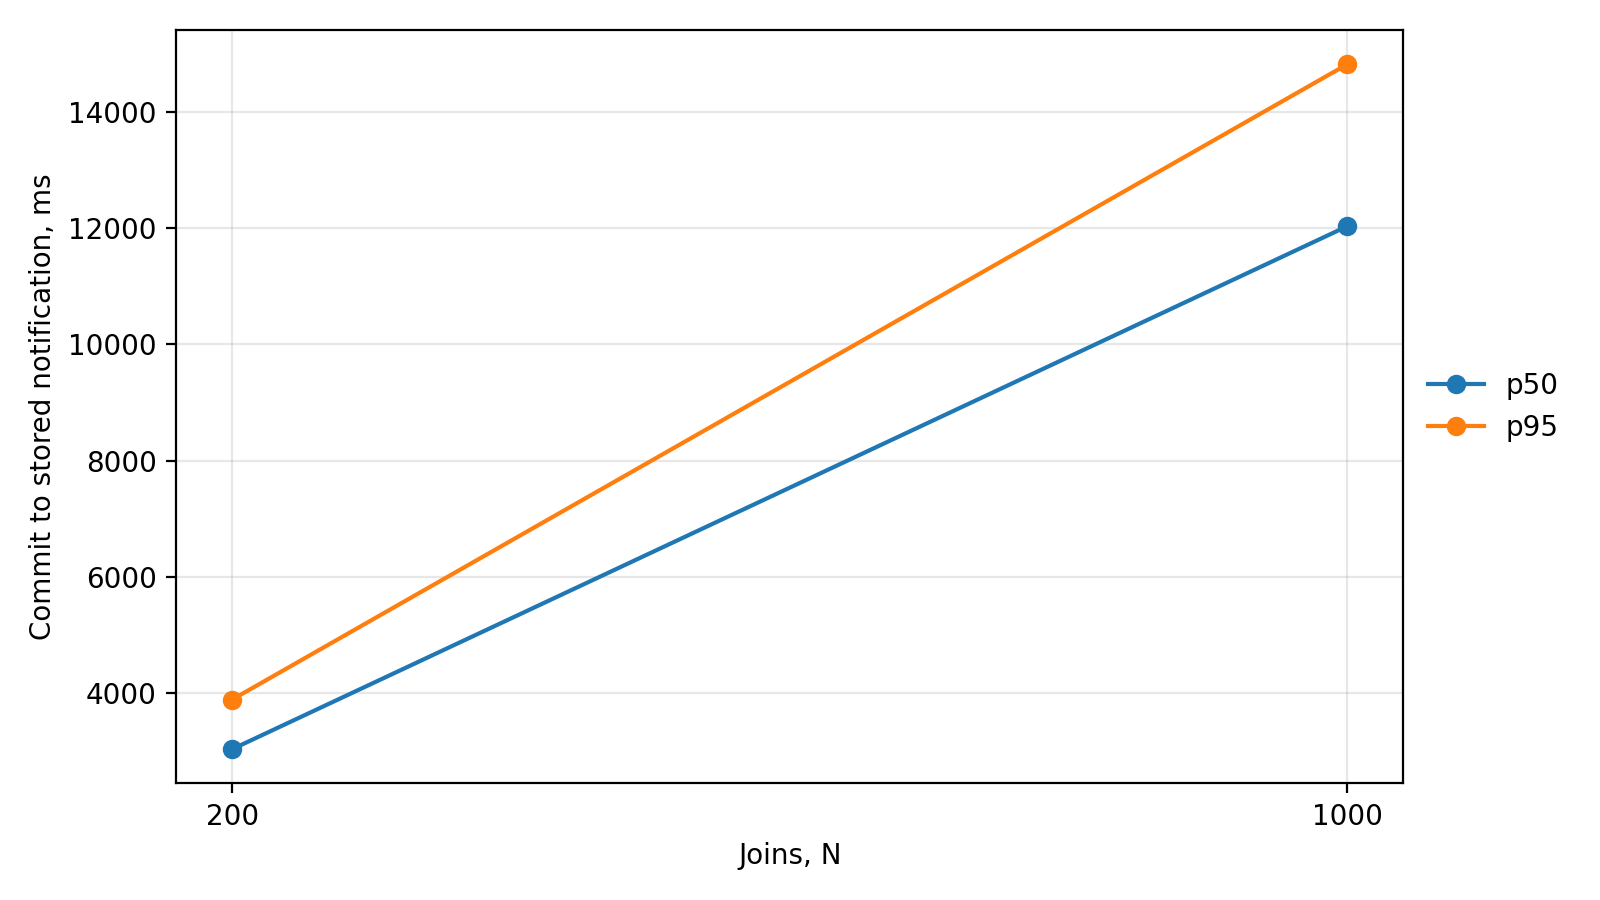
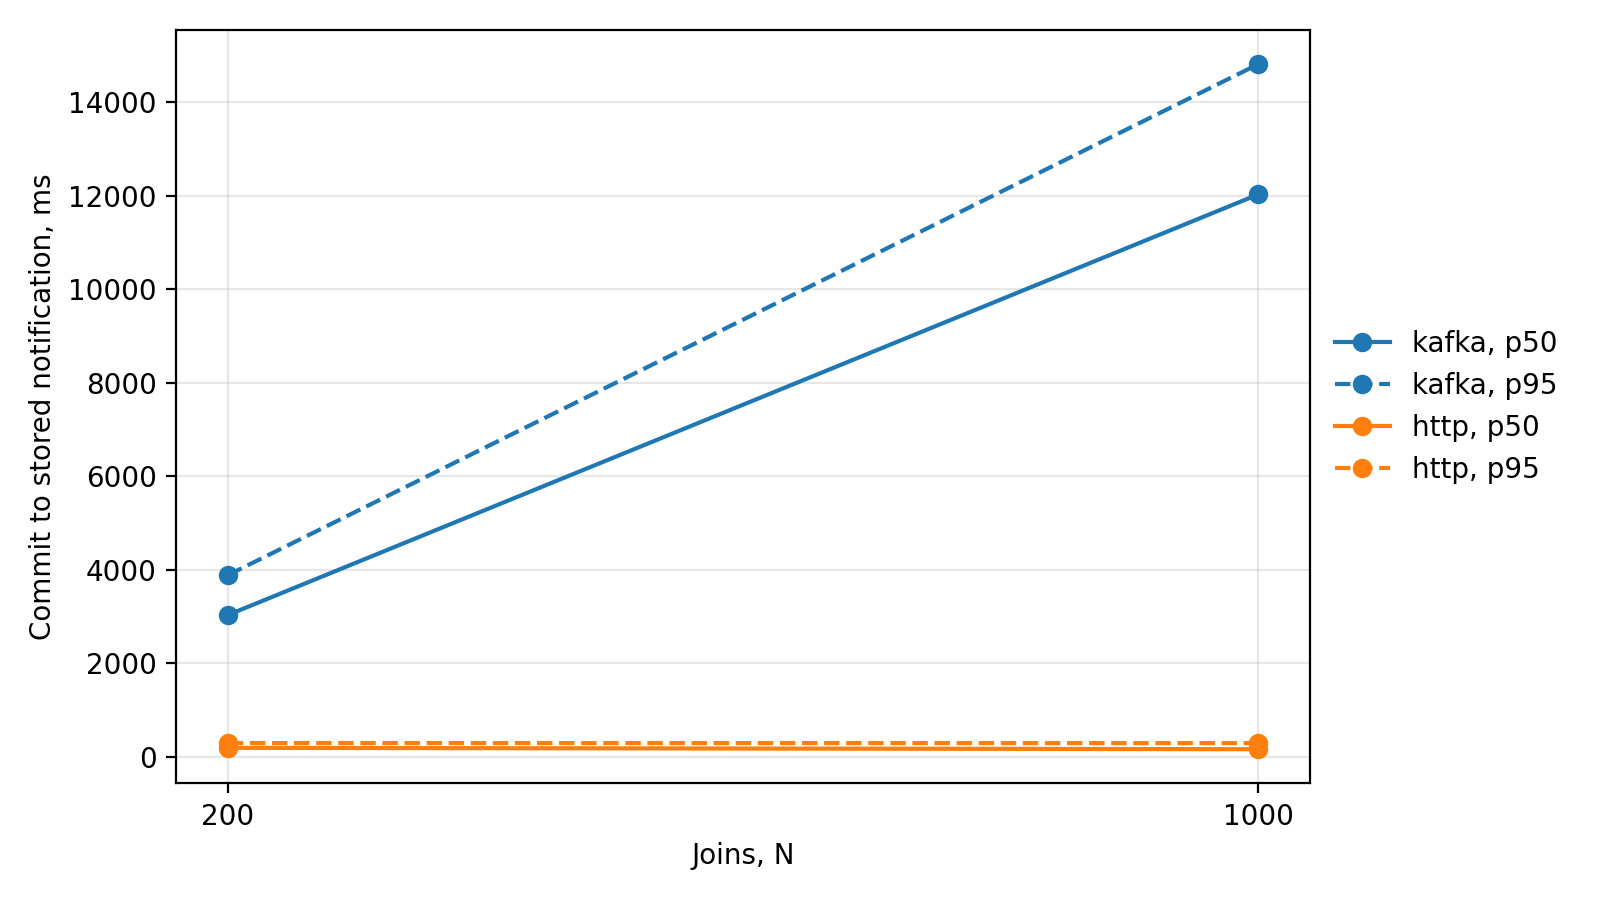
Add HTTP control mode to research experiments

diff --git a/research/experiments/exp-01-delivery.ts b/research/experiments/exp-01-delivery.ts
@@ -7,7 +7,7 @@ import {
 } from '../lib/delivery.js';
 import { joinPairs, runLoad } from '../lib/load.js';
 import { round, saveTable } from '../lib/report.js';
-import { isFinal, resetStack, waitUntil } from '../lib/stack.js';
+import { isFinal, mode, resetStack, waitUntil } from '../lib/stack.js';
 
 const SIZES = isFinal ? [1_000, 10_000, 50_000] : [200, 1_000];
 const REPEATS = isFinal ? 3 : 1;
@@ -18,6 +18,9 @@ const VUS = 20;
 const CONTROL_RATE = 20;
 const CONTROL_SIZE = isFinal ? 1_200 : 600;
 const WARM_UP = 50;
+
+// HTTP delivery skips these stages, and Kafka still publishes the event afterwards.
+const kafkaStage = (value: number) => (mode === 'kafka' ? value : 'n/a');
 
 async function measure(
   series: string,
@@ -40,12 +43,14 @@ async function measure(
   });
   const complete = await waitUntil(
     () => joinedNotifications() >= baseline + load.accepted,
-    1_800_000,
+    // HTTP has no recovery path, so missing notifications stay missing.
+    mode === 'http' ? 60_000 : 1_800_000,
     2_000,
   );
   const stages = deliveryStages(eventIds);
   console.info(`${series} N=${size} repeat=${repeat}: complete=${complete}`);
   return {
+    mode,
     series,
     N: size,
     repeat,
@@ -54,9 +59,9 @@ async function measure(
     httpP99: round(load.httpP99),
     endToEndP50: stages.endToEnd.p50,
     endToEndP95: stages.endToEnd.p95,
-    toPublishP50: stages.toPublish.p50,
-    toConsumeP50: stages.toConsume.p50,
-    toStoreP50: stages.toStore.p50,
+    toPublishP50: kafkaStage(stages.toPublish.p50),
+    toConsumeP50: kafkaStage(stages.toConsume.p50),
+    toStoreP50: kafkaStage(stages.toStore.p50),
     accepted: load.accepted,
     failed: load.failed,
     dropped: load.dropped,
@@ -76,5 +81,5 @@ export async function run(): Promise<void> {
       rows.push(await measure('saturated', size, repeat));
   for (let repeat = 1; repeat <= REPEATS; repeat += 1)
     rows.push(await measure('control', CONTROL_SIZE, repeat, CONTROL_RATE));
-  saveTable('exp-01', 'delivery', rows);
+  saveTable('exp-01', `delivery-${mode}`, rows);
 }

diff --git a/research/experiments/exp-02-failures.ts b/research/experiments/exp-02-failures.ts
@@ -20,6 +20,7 @@ import {
   count,
   isFinal,
   killService,
+  mode,
   resetStack,
   sleep,
   startService,
@@ -68,7 +69,8 @@ const failureRow = (
 const waitForDelivery = (baseline: number, eventIds: string[]) =>
   waitUntil(
     () => joinedNotifications() >= baseline + committedJoins(eventIds),
-    DELIVERY_TIMEOUT_MS,
+    // HTTP has no recovery path, so missing notifications stay missing.
+    mode === 'http' ? 30_000 : DELIVERY_TIMEOUT_MS,
   );
 
 async function consumerOutage({ users, nextEvents }: Context, size: number) {
@@ -212,12 +214,14 @@ export async function run(): Promise<void> {
   const rows: ReturnType<typeof failureRow>[] = [];
   const add = (row: ReturnType<typeof failureRow>) => {
     rows.push(row);
-    saveTable('exp-02', 'failures', rows);
+    saveTable('exp-02', `failures-${mode}`, rows);
   };
   for (const size of CONSUMER_OUTAGE_SIZES) {
     await waitForQuietPipeline();
     add(await consumerOutage(context, size));
   }
+  // Broker failure and repeated delivery apply only to the Kafka configuration.
+  if (mode === 'http') return;
   await waitForQuietPipeline();
   add(await brokerOutage(context));
   add(await repeatedDelivery());

diff --git a/research/lib/stack.ts b/research/lib/stack.ts
@@ -8,6 +8,7 @@ export const GATEWAY_URL = 'http://127.0.0.1:18000';
 export const ORIGIN = 'http://research.local';
 export const PROXY_NETWORK = 'event-sharing-research-proxy';
 export const isFinal = process.env.RESEARCH_PROFILE === 'final';
+export const mode = process.env.RESEARCH_MODE === 'http' ? 'http' : 'kafka';
 
 // A separate project name keeps these volumes apart from the deployed data.
 const PROJECT = 'event-sharing-research';
@@ -28,6 +29,8 @@ const environment = {
   GATEWAY_PORT: '18000',
   FRONTEND_ORIGIN: ORIGIN,
   PROXY_NETWORK,
+  // The control runs its own image, built from the research/http-baseline branch.
+  ...(mode === 'http' ? { APP_IMAGE: 'event-sharing-app:http-baseline' } : {}),
 };
 
 export const sleep = (milliseconds: number) =>
@@ -44,6 +47,7 @@ export function compose(args: string[], input?: string): string {
       'docker-compose.yml',
       '-f',
       'research/compose.research.yaml',
+      ...(mode === 'http' ? ['-f', 'research/compose.http.yaml'] : []),
       ...args,
     ],
     {

diff --git a/research/lib/report.ts b/research/lib/report.ts
@@ -1,7 +1,7 @@
 import { execFileSync } from 'node:child_process';
 import { mkdirSync, writeFileSync } from 'node:fs';
 import { resolve } from 'node:path';
-import { RESEARCH_DIR, ROOT, isFinal } from './stack.js';
+import { RESEARCH_DIR, ROOT, isFinal, mode } from './stack.js';
 
 type Row = Record<string, string | number | boolean>;
 
@@ -60,10 +60,11 @@ export function saveTable(experiment: string, name: string, rows: Row[]): void {
     ].join('\n') + '\n',
   );
   writeFileSync(
-    resolve(directory, 'run.json'),
+    resolve(directory, `${name}.run.json`),
     JSON.stringify(
       {
         profile: isFinal ? 'final' : 'pilot',
+        mode,
         finishedAt: new Date().toISOString(),
         commit: git('rev-parse', 'HEAD'),
         uncommittedFiles: git('status', '--short').split('\n').filter(Boolean)

diff --git a/research/analysis/charts.py b/research/analysis/charts.py
@@ -67,19 +67,25 @@ def line_chart(series, xlabel, ylabel, path, **format_options):
 
 
 def exp_01():
-    # The control series has one size, so it stays in the table.
-    rows = [row for row in read_rows("exp-01", "delivery") if row["series"] == "saturated"]
-    if not rows:
+    # The rate-limited series has one size, so it stays in the table.
+    by_mode = {mode: [row for row in read_rows("exp-01", f"delivery-{mode}")
+                      if row["series"] == "saturated"]
+               for mode in ["kafka", "http"]}
+    modes = [(mode, rows) for mode, rows in by_mode.items() if rows]
+    if not modes:
         return
+    rows = by_mode["kafka"]
     line_chart(
-        [(name, rows, "N", column, {}) for name, column in
-         [("p50", "httpP50"), ("p95", "httpP95"), ("p99", "httpP99")]],
+        [(f"{mode}, {name}", part, "N", column, {"color": color, "linestyle": line})
+         for (mode, part), color in zip(modes, ["C0", "C1"])
+         for name, column, line in [("p50", "httpP50", "-"), ("p95", "httpP95", "--")]],
         "Joins, N", "HTTP response time, ms",
         RESULTS / "exp-01/http-latency.png", log_x=True,
     )
     line_chart(
-        [(name, rows, "N", column, {}) for name, column in
-         [("p50", "endToEndP50"), ("p95", "endToEndP95")]],
+        [(f"{mode}, {name}", part, "N", column, {"color": color, "linestyle": line})
+         for (mode, part), color in zip(modes, ["C0", "C1"])
+         for name, column, line in [("p50", "endToEndP50", "-"), ("p95", "endToEndP95", "--")]],
         "Joins, N", "Commit to stored notification, ms",
         RESULTS / "exp-01/end-to-end.png", log_x=True,
     )

diff --git a/research/README.md b/research/README.md
@@ -30,6 +30,14 @@ Run the full sizes for the thesis:
 RESEARCH_PROFILE=final pnpm research
 ```
 
+Run the direct HTTP comparison for EXP-01 and EXP-02. Its image comes from the `research/http-baseline` branch:
+
+```bash
+git worktree add ../http-baseline research/http-baseline
+docker build -f ../http-baseline/infra/docker/app.Dockerfile -t event-sharing-app:http-baseline ../http-baseline
+RESEARCH_MODE=http pnpm research exp-01 exp-02
+```
+
 Check all allowed and forbidden event state changes:
 
 ```bash
@@ -77,6 +85,5 @@ Small test runs only show that the method works. Do not quote their numbers in t
 
 - The requests and the system run on the same computer, unless the load script moves to a second one.
 - Times in the database are exact to 1 ms.
-- EXP-01 tests only the current Kafka setup. Comparing it with direct HTTP needs a separate branch.
 - EXP-03 writes test events directly to the database, so it measures search without Kafka and the API.
 - Every logged-in request also checks the session through Kafka, and this time is included in the results.

diff --git a/research/results/exp-01/delivery-http.md b/research/results/exp-01/delivery-http.md
@@ -1,0 +1,5 @@
+| mode | series | N | repeat | httpP50 | httpP95 | httpP99 | endToEndP50 | endToEndP95 | toPublishP50 | toConsumeP50 | toStoreP50 | accepted | failed | dropped | requestsPerSecond | notifications | lost | drainSeconds | cpuPercent | memoryMiB |
+| --- | --- | --- | --- | --- | --- | --- | --- | --- | --- | --- | --- | --- | --- | --- | --- | --- | --- | --- | --- | --- |
+| http | saturated | 200 | 1 | 420.1 | 618.1 | 836 | 194 | 296 | 1763 | -1638 | 62 | 200 | 0 | 0 | 46.2 | 200 | 0 | 4.3 | 360.7 | 2048 |
+| http | saturated | 1000 | 1 | 426.7 | 637.1 | 765.7 | 165 | 295 | 3043 | -2949 | 48 | 1000 | 0 | 0 | 46.1 | 1000 | 0 | 21.6 | 381.6 | 2431 |
+| http | control | 600 | 1 | 57.2 | 116.5 | 346.5 | 21 | 51 | 631 | -620 | 7 | 601 | 0 | 0 | 20 | 600 | 0 | 30 | 282.2 | 2293 |

diff --git a/research/results/exp-02/failures-http.md b/research/results/exp-02/failures-http.md
@@ -1,0 +1,4 @@
+| scenario | N | accepted | failed | failedStatuses | committed | delivered | lost | duplicates | pendingAtFailure | probeStatuses | apiRecoverySeconds | replayedMessages | newInboxRows | fullDeliverySeconds |
+| --- | --- | --- | --- | --- | --- | --- | --- | --- | --- | --- | --- | --- | --- | --- |
+| notifications down | 100 | 100 | 0 | - | 100 | 0 | 100 | 0 | 0 | - | 0 | 0 | 0 | 31.3 |
+| notifications down | 500 | 500 | 0 | - | 500 | 0 | 500 | 0 | 0 | - | 0 | 0 | 0 | 31.3 |
